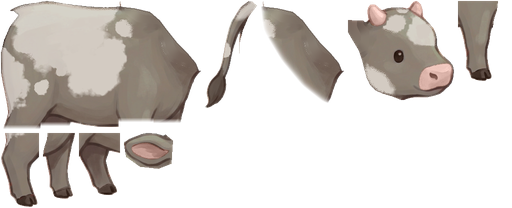
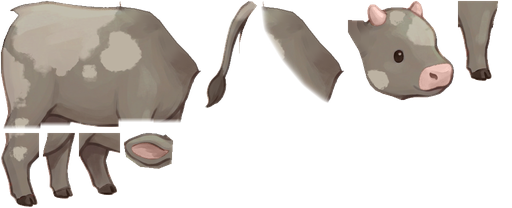
v171: new grey cow coat (user recolor)

diff --git a/index.html b/index.html
@@ -250,7 +250,7 @@ body.overview .hud, body.overview .stick-zone, body.overview .guide, body.overvi
 <script>
 // ===================== Общие настройки =====================
 const DPR = Math.min(window.devicePixelRatio || 1, 3);
-const GAME_VERSION = 170;   // совпадает с номером в sw.js (farm-vN); видно в окне «Заново»
+const GAME_VERSION = 171;   // совпадает с номером в sw.js (farm-vN); видно в окне «Заново»
 // Слои земли (трава, дорожки, поля, тени) — глубже любых персонажей и деревьев, даже с отрицательной y
 const GROUND = -5000;
 // Карта: y от −1000 до 2000. Верх (y < 0) — поле с пшеницей, низ (y > 1000) — пастбище Нанамина

diff --git a/sw.js b/sw.js
@@ -4,7 +4,7 @@
 //  • картинки и движок — сразу из сохранённой копии (без похода в сеть при каждом запуске).
 //    Когда выходит новая версия (меняется CACHE), новый service worker при установке
 //    заново скачивает все файлы с меткой версии — гарантированно свежие.
-const CACHE = 'farm-v170';
+const CACHE = 'farm-v171';
 const CORE = [
   './',
   './index.html',
